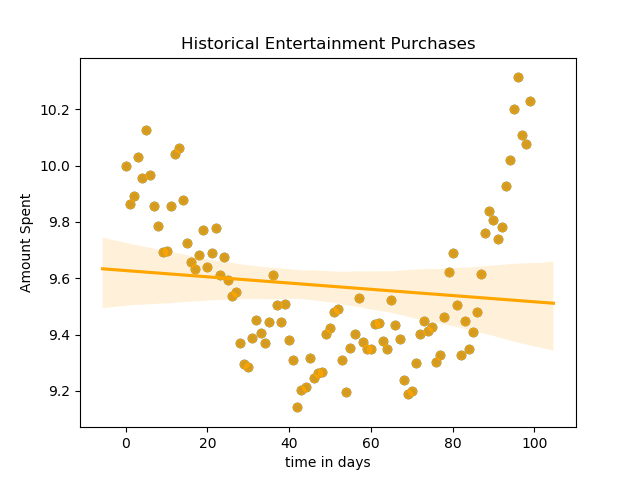
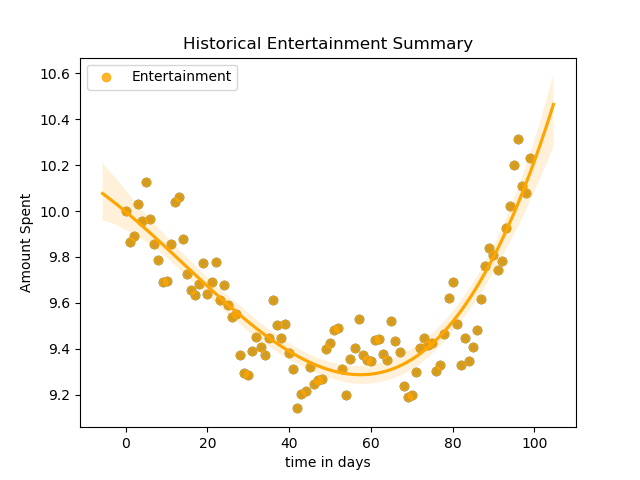
poly regression done

diff --git a/genData.py b/genData.py
@@ -40,42 +40,42 @@ def snsScatterPlot(df):
     sns.scatterplot(df["time in days"], df["Amount Spent"]).plot()
 
 
-def snsRegPlot(df, lab, color='blue'):
-    sns.regplot(df["time in days"], df["Amount Spent"], color, label=lab, order=3).plot()
+def snsRegPlot(df, lab, color='orange'):
+    sns.regplot(df["time in days"], df["Amount Spent"], color='limegreen', label=lab, order=3).plot()
 
 
 stock_prices = generatePrices(100)
 #plotData(stock_prices)
 
-#turn into a dataframe
+# #turn into a dataframe
 df = pd.DataFrame(data=stock_prices, columns=["Amount Spent"])
 df["time in days"] = [x for x in range(100)]
 print(df)
 #snsScatterPlot(df)
-plt.title("Historical Purchases Summary")
+plt.title("Historical Transportation Summary")
 snsRegPlot(df, 'Transportation', color='blue')
 
 #=====GENERATE OTHER TYPE============#
 # # Entertainment
 ent_cost = generatePrices(100)
-plotData(ent_cost)
-df = pd.DataFrame(data=ent_cost, columns=["Amount Spent"])
-df["time in days"] = [x for x in range(100)]
-snsRegPlot(df, 'Entertainment', color='orange')
+# plotData(ent_cost)
+# df = pd.DataFrame(data=ent_cost, columns=["Amount Spent"])
+# df["time in days"] = [x for x in range(100)]
+# snsRegPlot(df, 'Entertainment', color='orange')
 
-# Entertainment
+# # Entertainment
 gro_cost = generatePrices(100)
-plotData(gro_cost)
-df = pd.DataFrame(data=gro_cost, columns=["Amount Spent"])
-df["time in days"] = [x for x in range(100)]
-snsRegPlot(df, 'Groceries', color='red')
-
+# plotData(gro_cost)
+# df = pd.DataFrame(data=gro_cost, columns=["Amount Spent"])
+# df["time in days"] = [x for x in range(100)]
+# snsRegPlot(df, 'Groceries', color='red')
 #
-util_cost = generatePrices(100)
-plotData(util_cost)
-df = pd.DataFrame(data=util_cost, columns=["Amount Spent"])
-df["time in days"] = [x for x in range(100)]
-snsRegPlot(df, 'Utilities', color='purple')
+# #
+# util_cost = generatePrices(100)
+# plotData(util_cost)
+# df = pd.DataFrame(data=util_cost, columns=["Amount Spent"])
+# df["time in days"] = [x for x in range(100)]
+# snsRegPlot(df, 'Utilities', color='purple')
 
 #add the legend and descriptions
 plt.legend(loc='upper left')
